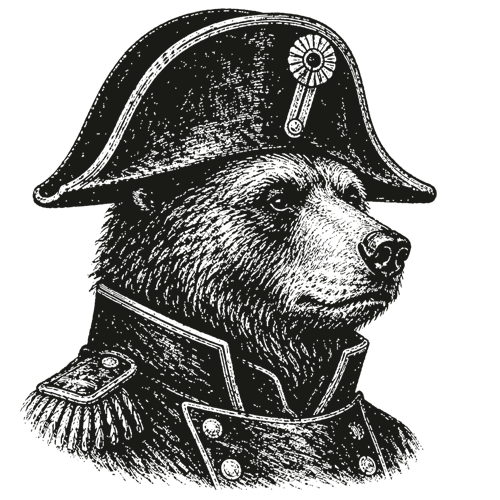
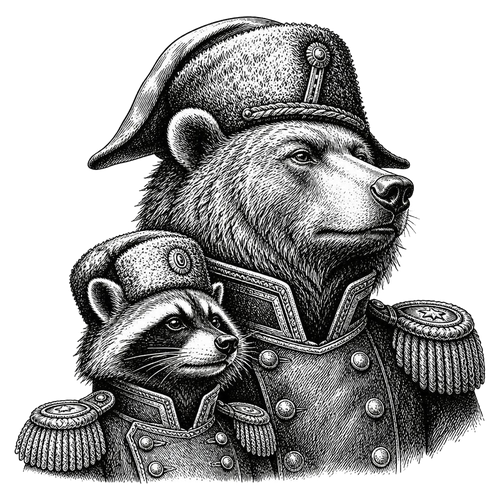
Blokjes tot 9 kolommen, factie-bonus als +n op de kaart, klein embleem en grote stats, de duo-emblemen
Max: "zorg dat de blokjes ook kloppen, met CP en bonus kun je 6 of 7
krijgen", "bij het definieren al op de kaart wat de +1 is", "het embleem
op de kaarten een stuk kleiner en de stats wat groter", "gebruik deze
emblemen". tools/verwerk_emblemen.py zet de duo-gravures uit de
assets-map om. Checks: uispel 777 d16a14f8, herstelcheck 777 0
verschillen, koppelcheck PASS, uicheck PASS.

diff --git a/tools/verwerk_emblemen.py b/tools/verwerk_emblemen.py
@@ -1,0 +1,69 @@
+# -*- coding: utf-8 -*-
+"""De zes factie-emblemen uit de assets-map in het spel zetten.
+
+16 september (Max: "gebruik deze emblemen", de duo-gravures big bro + klein
+broertje): leest `<dier>_nobg.png` (1024, doorzichtige achtergrond) uit
+`fogofwar-assets/UI_assets_pack/Emblems/`, knipt op de niet-doorzichtige
+inhoud met een kleine marge, maakt hem vierkant en schaalt naar 500 x 500,
+en schrijft `assets/ui/emblems/<Naam>.png` (de namen die UiAssets.EMBLEMEN
+kent: Bear, Croccodile, Lion, Mouse, Pig, Wolf). De .import ernaast blijft
+staan (mipmaps). Daarna `<godot> --headless --path . --import` en `-- uicheck`.
+
+Gebruik:  python tools/verwerk_emblemen.py [--bron <map>] [--droogloop]
+"""
+import argparse
+import io
+import os
+import sys
+
+from PIL import Image
+
+WORTEL = os.path.dirname(os.path.dirname(os.path.abspath(__file__)))
+DOEL = os.path.join(WORTEL, "assets", "ui", "emblems")
+BRON_STANDAARD = r"C:\Users\maxni\Documents\fogofwar-assets\UI_assets_pack\Emblems"
+MAAT = 500
+MARGE = 0.03   # deel van de maat als lucht rondom
+
+# bronbestand -> naam in het spel (UiAssets.EMBLEMEN)
+NAMEN = {"bear_nobg.png": "Bear.png", "croc_nobg.png": "Croccodile.png", "lion_nobg.png": "Lion.png",
+         "mouse_nobg.png": "Mouse.png", "pig_nobg.png": "Pig.png", "wolf_nobg.png": "Wolf.png"}
+
+
+def op_maat(im):
+    im = im.convert("RGBA")
+    doos = im.getchannel("A").point(lambda a: 255 if a > 8 else 0).getbbox()
+    if doos:
+        im = im.crop(doos)
+    b, h = im.size
+    zijde = int(max(b, h) * (1.0 + 2.0 * MARGE))
+    vierkant = Image.new("RGBA", (zijde, zijde), (0, 0, 0, 0))
+    vierkant.alpha_composite(im, ((zijde - b) // 2, (zijde - h) // 2))
+    return vierkant.resize((MAAT, MAAT), Image.LANCZOS)
+
+
+def main():
+    ap = argparse.ArgumentParser()
+    ap.add_argument("--bron", default=BRON_STANDAARD)
+    ap.add_argument("--droogloop", action="store_true")
+    a = ap.parse_args()
+    fouten = 0
+    for bron, naam in NAMEN.items():
+        pad = os.path.join(a.bron, bron)
+        if not os.path.exists(pad):
+            print("  MIST: %s" % pad)
+            fouten += 1
+            continue
+        im = op_maat(Image.open(pad))
+        uit = os.path.join(DOEL, naam)
+        print("  %s -> %s (%dx%d)" % (bron, os.path.relpath(uit, WORTEL), MAAT, MAAT))
+        if not a.droogloop:
+            im.save(uit, optimize=True)
+    if a.droogloop:
+        print("Droogloop: niets geschreven.")
+    else:
+        print("Klaar. Nu: <godot> --headless --path . --import  en  -- uicheck")
+    return 1 if fouten else 0
+
+
+if __name__ == "__main__":
+    sys.exit(main())

diff --git a/WIP.md b/WIP.md
@@ -270,6 +270,33 @@ pijl, zodat kegelen en keilen allebei kloppen. `-- spelcheck` PASS
 (kegelen 10, keilen 2, kanon 2, vissen 1, cadans 8 van 8), capecheck PASS,
 omgevingcheck 1 PASS.
 
+## 16 september -- blokjes tot 9, de factie-bonus op de kaart, kleiner embleem, de duo-emblemen
+
+Max: "zorg dat de blokjes ook kloppen, je kan ook met CP en bonus 6 of 7
+krijgen toch?" De stat-blokjes onder een pion waren een vast raster van 5;
+alles daarboven viel weg. Nu bouwt `_build_health_bars` 9 kolommen per rij
+(HP_COLS_MAX) en toont `_update_health_bars` per pion zoveel kolommen als hij
+nodig heeft (minstens 5, tot 9: max_hp, stamina met trom, attack met
+vaandel), gecentreerd onder de voeten; rol-icoon en vraagteken schuiven
+mee; de render-digest telt alleen zichtbare blokjes. Max: "fix dat bij het
+definieren per factie al duidelijk is op de kaart wat de +1 is, bijv muis
+stamina heeft al +1": `CardView.set_bonus` zet een goudkleurig "+n" naast
+het cijfer, `CardHand.configure` krijgt `factie_bonus` en game.gd geeft
+`[hp_bonus, speed_bonus, 0]` uit de doctrine mee (`_factie_bonus_van`;
+alleen wat voor elke pion geldt, de cavalerie-bonus van de Wolf en de
+ondergrenzen per type niet). Max: "het embleem op de kaarten mag een stuk
+kleiner en de stats wat groter": krans 0,94 -> 0,58, factienaam, sierlijn
+en kolommen omhoog, de drie kolommen 1,14 x (`KAART_KOLOM_SCHAAL`, de
+kolom-node schaalt met alles erin), cijfer 96 en boven de plus gezet
+(KOLOM_CIJFER_Y 108, KNOP_Y 212). Max: "gebruik deze emblemen" (de zes
+duo-gravures, big bro met zijn kleine broertje, uit
+`fogofwar-assets/UI_assets_pack/Emblems/<dier>_nobg.png`):
+`tools/verwerk_emblemen.py` knipt ze op de doorzichtige inhoud, maakt ze
+vierkant en schrijft `assets/ui/emblems/<Naam>.png` op 500 x 500 (de oude
+enkelvoudige koppen zijn vervangen). Checks: uispel 777 d16a14f8,
+herstelcheck 777 0 verschillen, koppelcheck PASS, uicheck PASS, `-- define`
+met venster: kaart met klein duo-embleem, grote stats, cijfer boven de plus.
+
 ## 16 september -- spelletjes nooit op het bord, hooguit twee per diorama, de kogel rolt door
 
 Max: "de spelletjes mogen nooit op het bord komen en doe er nooit meer dan

diff --git a/CLAUDE.md b/CLAUDE.md
@@ -685,6 +685,21 @@ B1-B17) en `WIP.md` (per-stap-logboek) voor de actuele stand.**
   met sha1's dat `tools/maak_prop_geluiden.py` schrijft; een echte opname op
   dezelfde naam heeft een andere hash) en een Engelse ElevenLabs-prompt
   (`PROP_PROMPT_EN` in het script).
+- **Stat-blokjes tot 9 en de factie-bonus op de kaart (16 september, Max:
+  "de blokjes moeten kloppen, met CP en bonus kun je 6 of 7 krijgen"; "bij
+  het definieren al op de kaart wat de +1 is, bijv muis stamina").** Het
+  raster onder een pion is 5 kolommen, maar `_build_health_bars` bouwt er
+  `HP_COLS_MAX` 9 en `_update_health_bars` toont per pion zoveel als hij
+  nodig heeft, gecentreerd. `CardView.set_bonus` toont de vaste
+  factie-bonus als goud "+n" naast het cijfer (`CardHand.configure(...,
+  factie_bonus)`, `game._factie_bonus_van`: hp_bonus en speed_bonus; niet
+  de cavalerie-bonus of de ondergrenzen, die hangen van de pion af). De
+  kaart heeft sinds die dag een klein embleem (krans 0,58) en grotere
+  stat-kolommen (`KAART_KOLOM_SCHAAL` 1,14, cijfer 96). **De emblemen zijn
+  de duo-gravures** (big bro met kleine broertje) uit
+  `fogofwar-assets/UI_assets_pack/Emblems/<dier>_nobg.png`:
+  `python tools/verwerk_emblemen.py` knipt en schaalt ze naar
+  `assets/ui/emblems/<Naam>.png` (500 px), daarna `--import` en `-- uicheck`.
 - **UI-assetpack nakijken: `-- uicheck`** (statusbord van de UI-assets onder
   `assets/ui/`: elk icoon-id uit `docs/design/UI-SPEC-EN.md` met zijn bestand,
   de zes emblemen, de kaartdelen, elke knop- en paneelstijl met 9-patch-marge,
